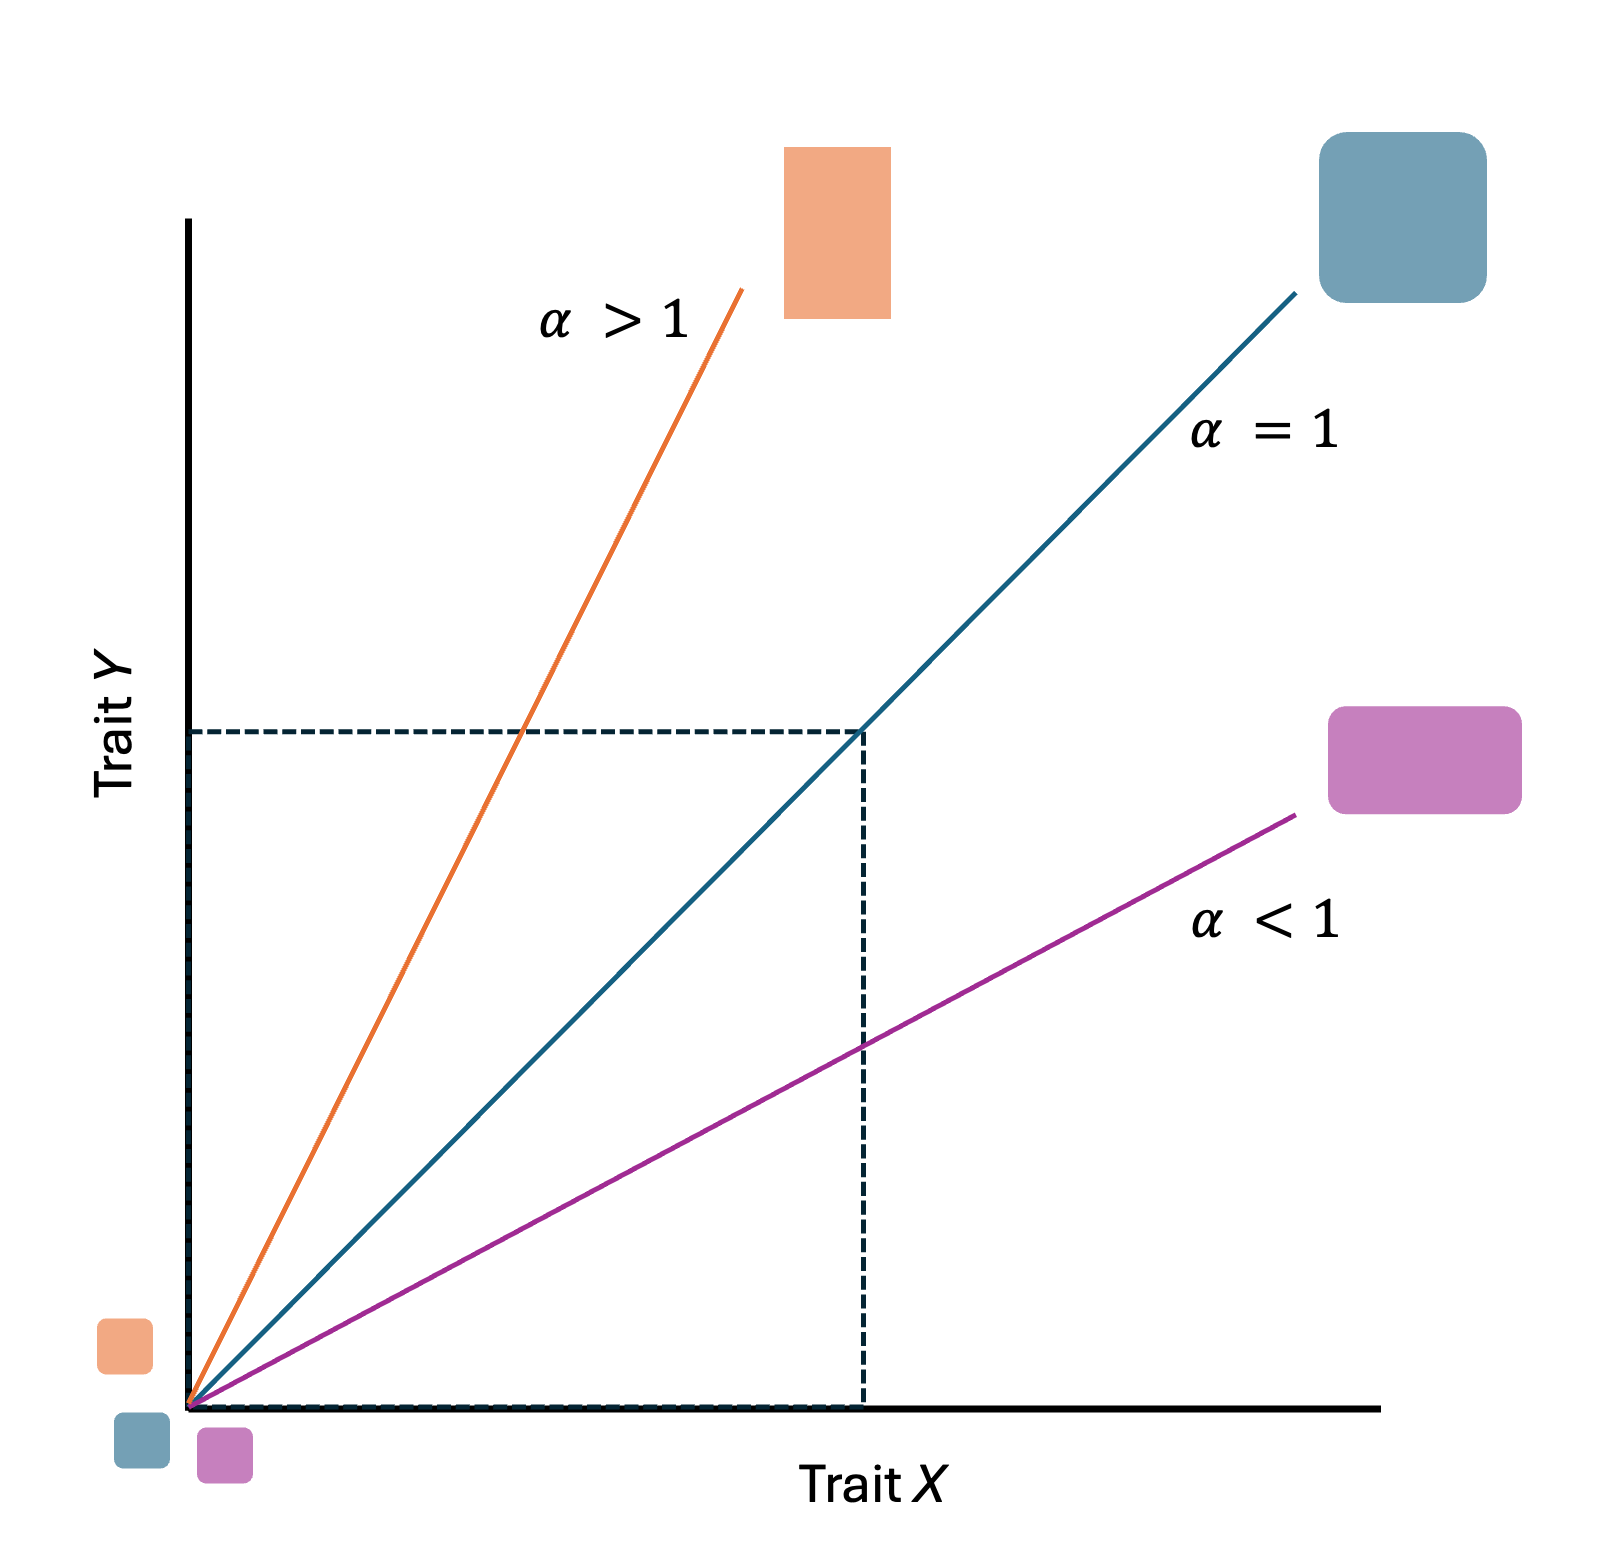
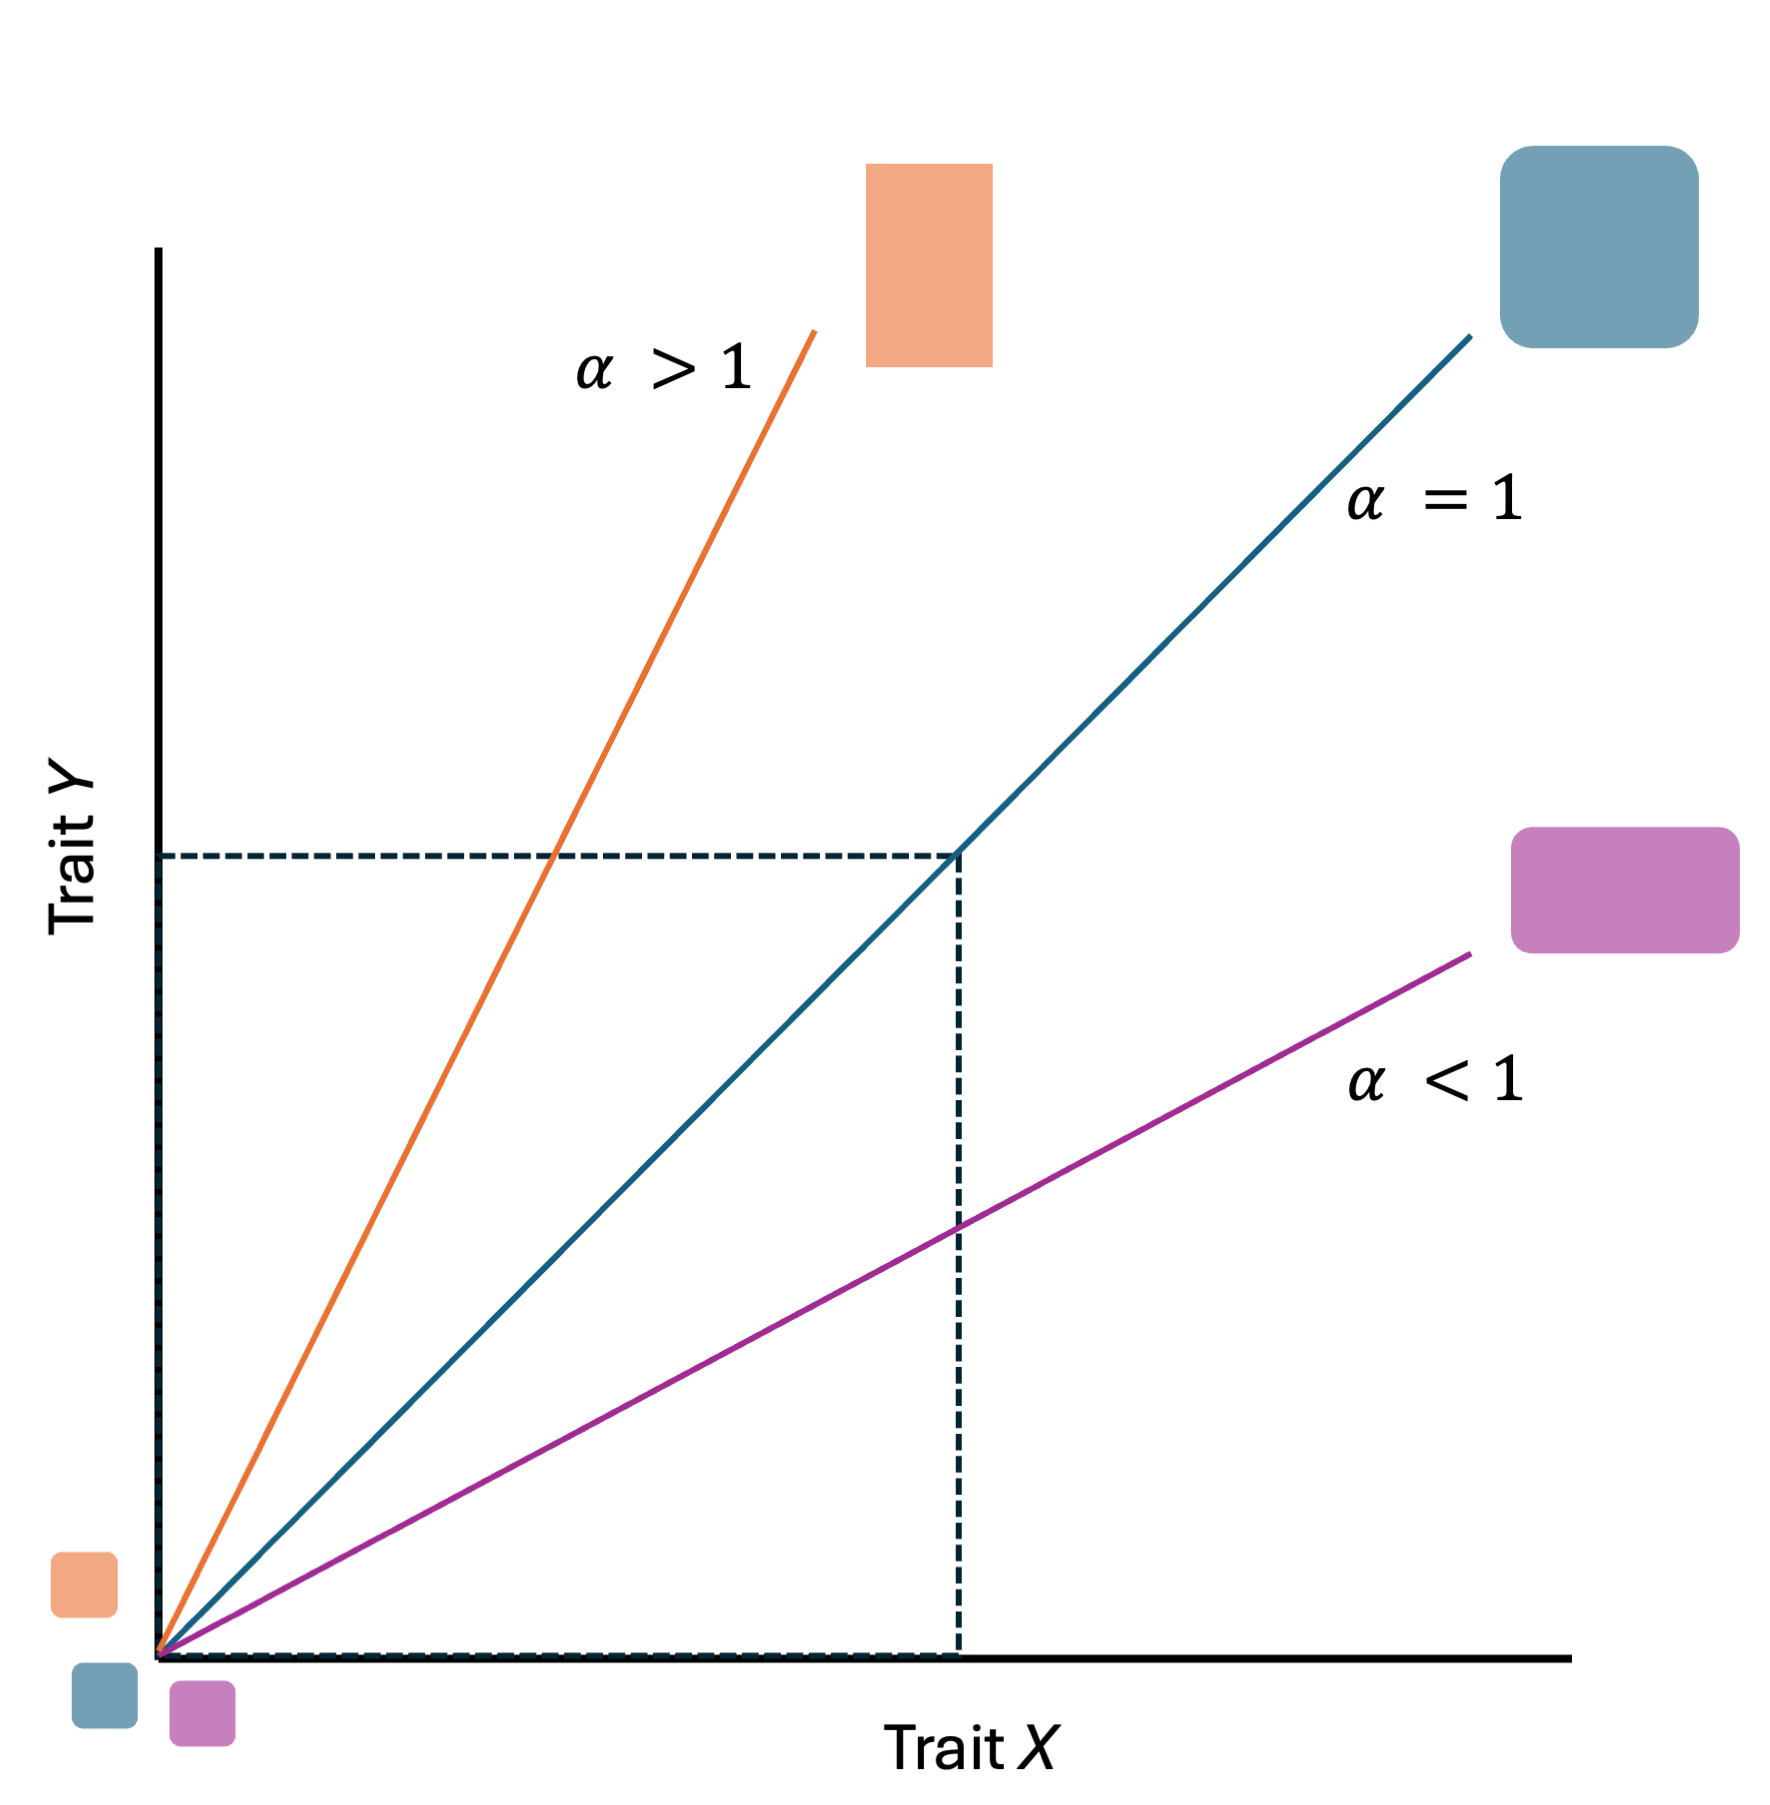
allometry fig fixes

diff --git a/GMcourse/Lectures/07-Allometry.html b/GMcourse/Lectures/07-Allometry.html
@@ -59,7 +59,7 @@ class: center, middle, inverse, title-slide
 
 ]
 .pull-right[    
-&lt;img src="LectureData/07.allometry/PosnegAllom_b.png" width="60%" style="display: block; margin: auto;" /&gt;
+&lt;img src="LectureData/07.allometry/PosnegAllom_c.png" width="60%" style="display: block; margin: auto;" /&gt;
 ]
 
 --
